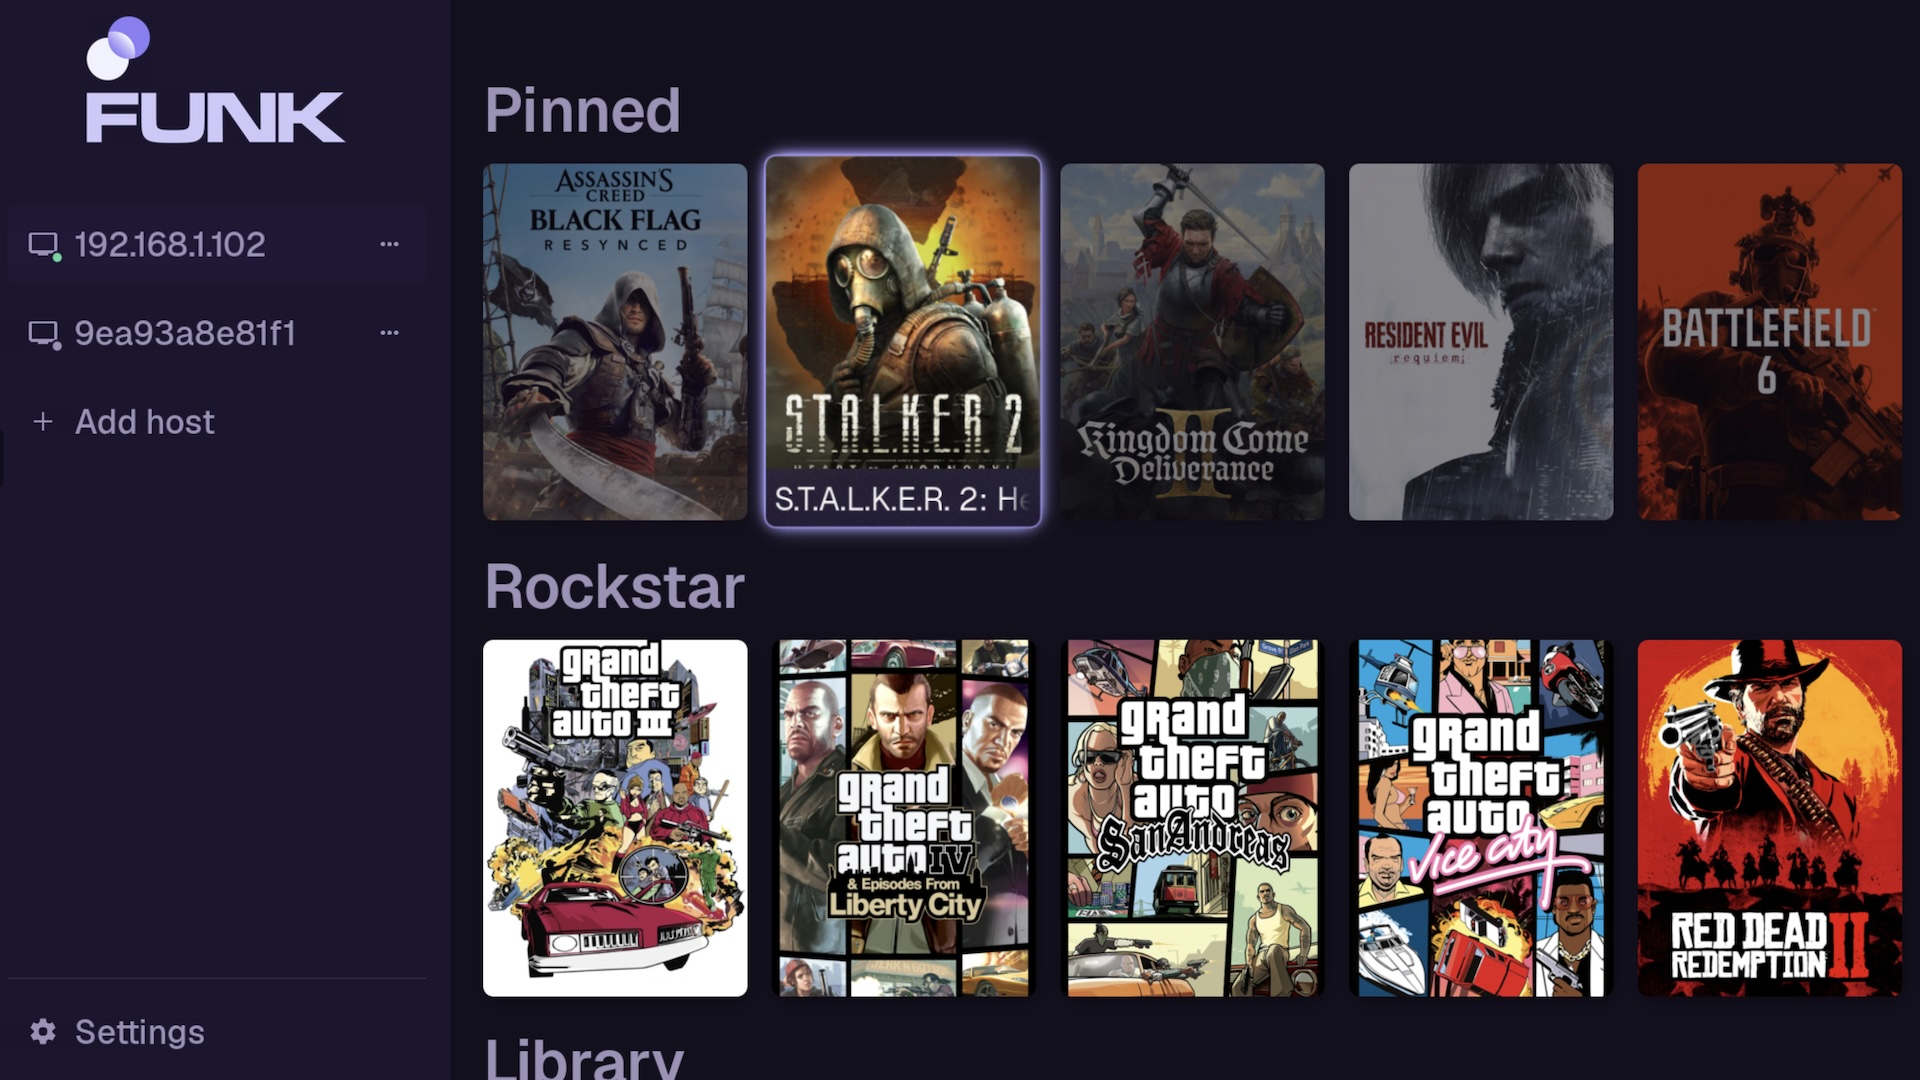
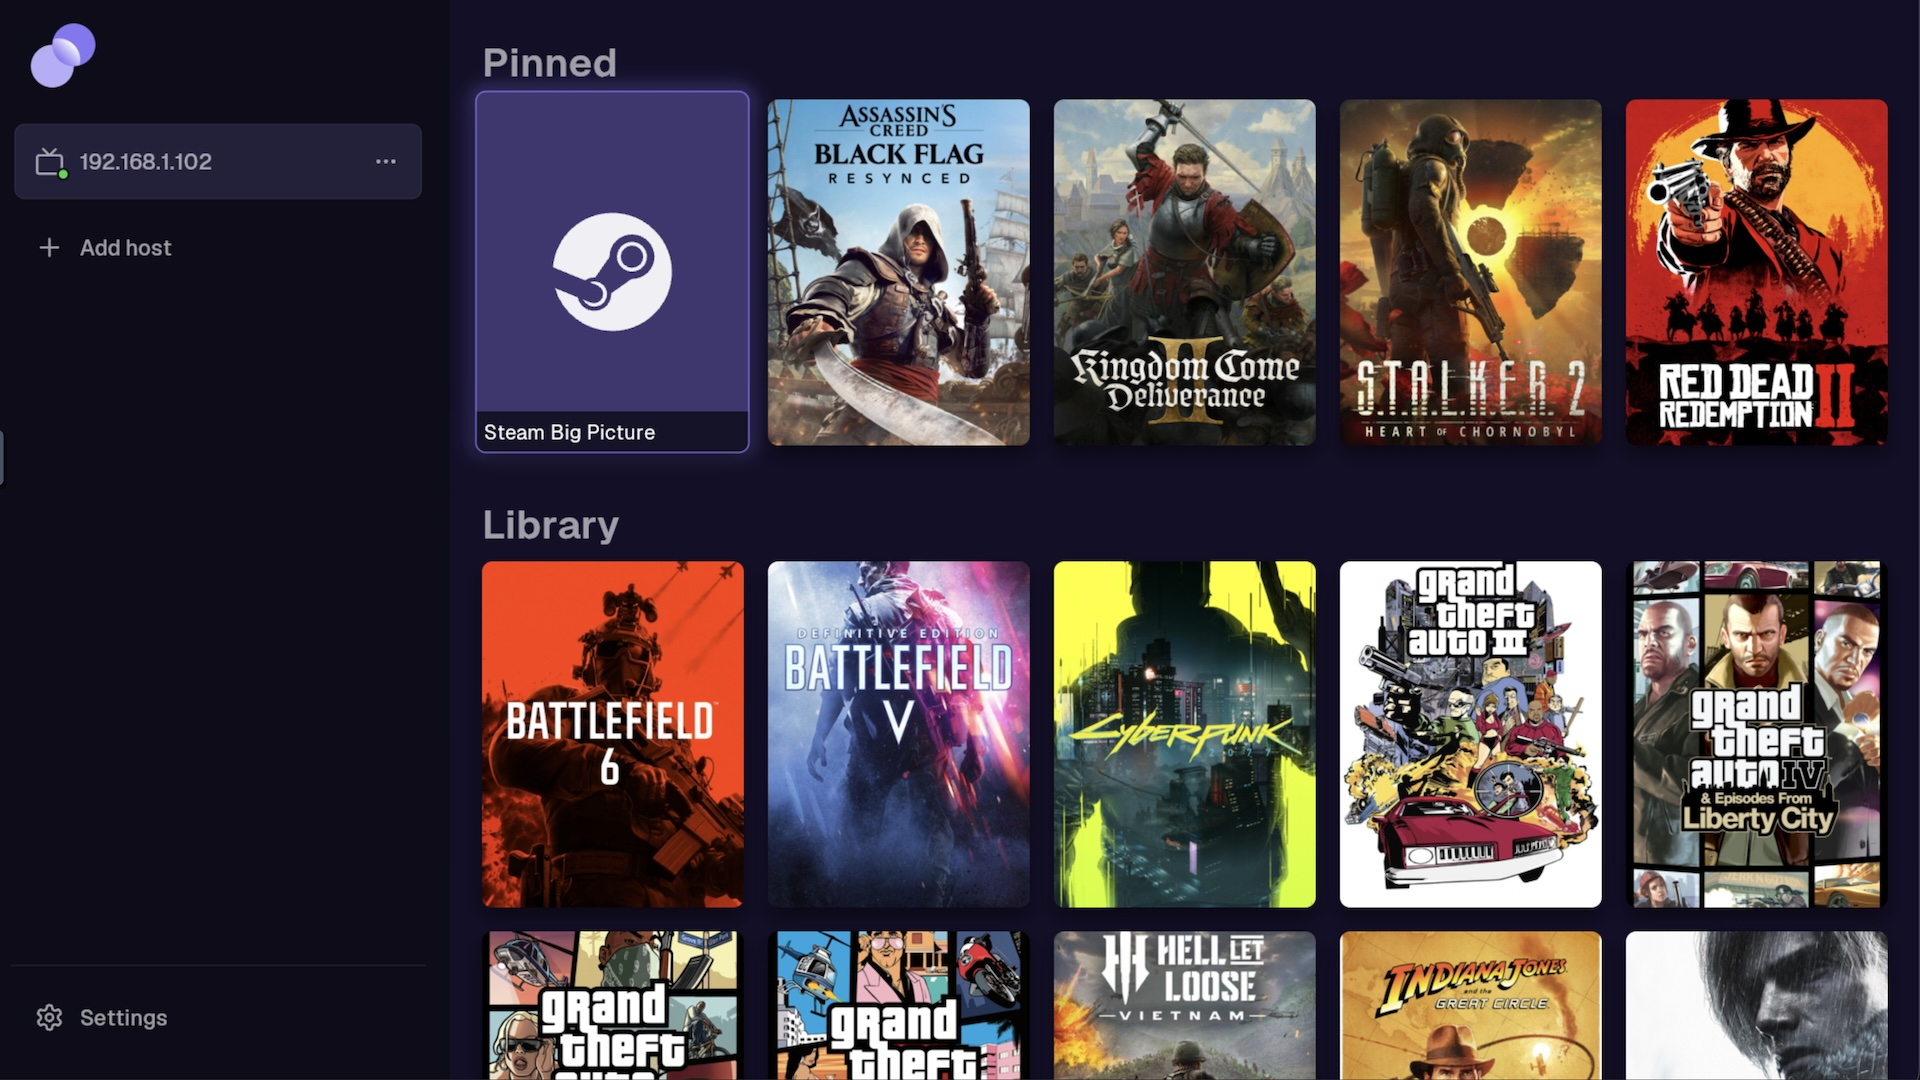
Update info and screenshots (#209)

diff --git a/README.md b/README.md
@@ -21,7 +21,7 @@ Targets webOS 5 and later (developed and verified live on an **LG CX, webOS 5.6*
 older NDL interface. Built directly on the upstream `punktfunk-core` crate (a pinned git dependency — see
 `Cargo.toml`).
 
-The app is originally developed by [dyptan.io](https://dyptan.io) and donated to
+The app is originally developed by [dyptan.io](https://github.com/dyptan-io) and donated to
 [punktfunk](https://github.com/punktfunk) organization. Built on the [punktfunk](https://git.unom.io/unom/punktfunk)
 project by **Enrico Bühler ([unom](https://unom.io))** — all credit for the protocol and host implementation belongs there.
 This repo is only the webOS-specific client: an SDL2 UI, NDL DirectMedia hardware video decode, and webOS packaging.
@@ -31,8 +31,9 @@ This repo is only the webOS-specific client: an SDL2 UI, NDL DirectMedia hardwar
 
 <p align="center">
   <img src="assets/screenshots/home.jpg" width="32%" alt="Home / game library">
-  <img src="assets/screenshots/collections.jpg" width="32%" alt="Collections">
   <img src="assets/screenshots/settings.jpg" width="32%" alt="Settings">
+  <img src="assets/screenshots/console-home.jpg" width="32%" alt="Console Home">
+  <img src="assets/screenshots/console-game.jpg" width="32%" alt="Console Game">
 </p>
 
 </details>

diff --git a/packaging/description.md b/packaging/description.md
@@ -1,9 +1,7 @@
 
-![punktfunk](https://raw.githubusercontent.com/punktfunk/client-webos/main/assets/logo/logo-sidebar.png)
+# Punktfunk — Low-latency desktop and game streaming client for LG webOS.
 
-Low-latency desktop and game streaming for LG webOS.
-
-![Home screen](https://raw.githubusercontent.com/punktfunk/client-webos/main/assets/screenshots/home.jpg)
+![Home screen](https://raw.githubusercontent.com/punktfunk/client-webos/main/assets/screenshots/console-game.jpg)
 
 * **Video.** Up to 4K120 with HDR. HEVC or H.264, decoded by the TV's media pipeline.
 * **Bitrate.** Automatic mode adapts to the network, or set a fixed rate up to 200 Mbps.
